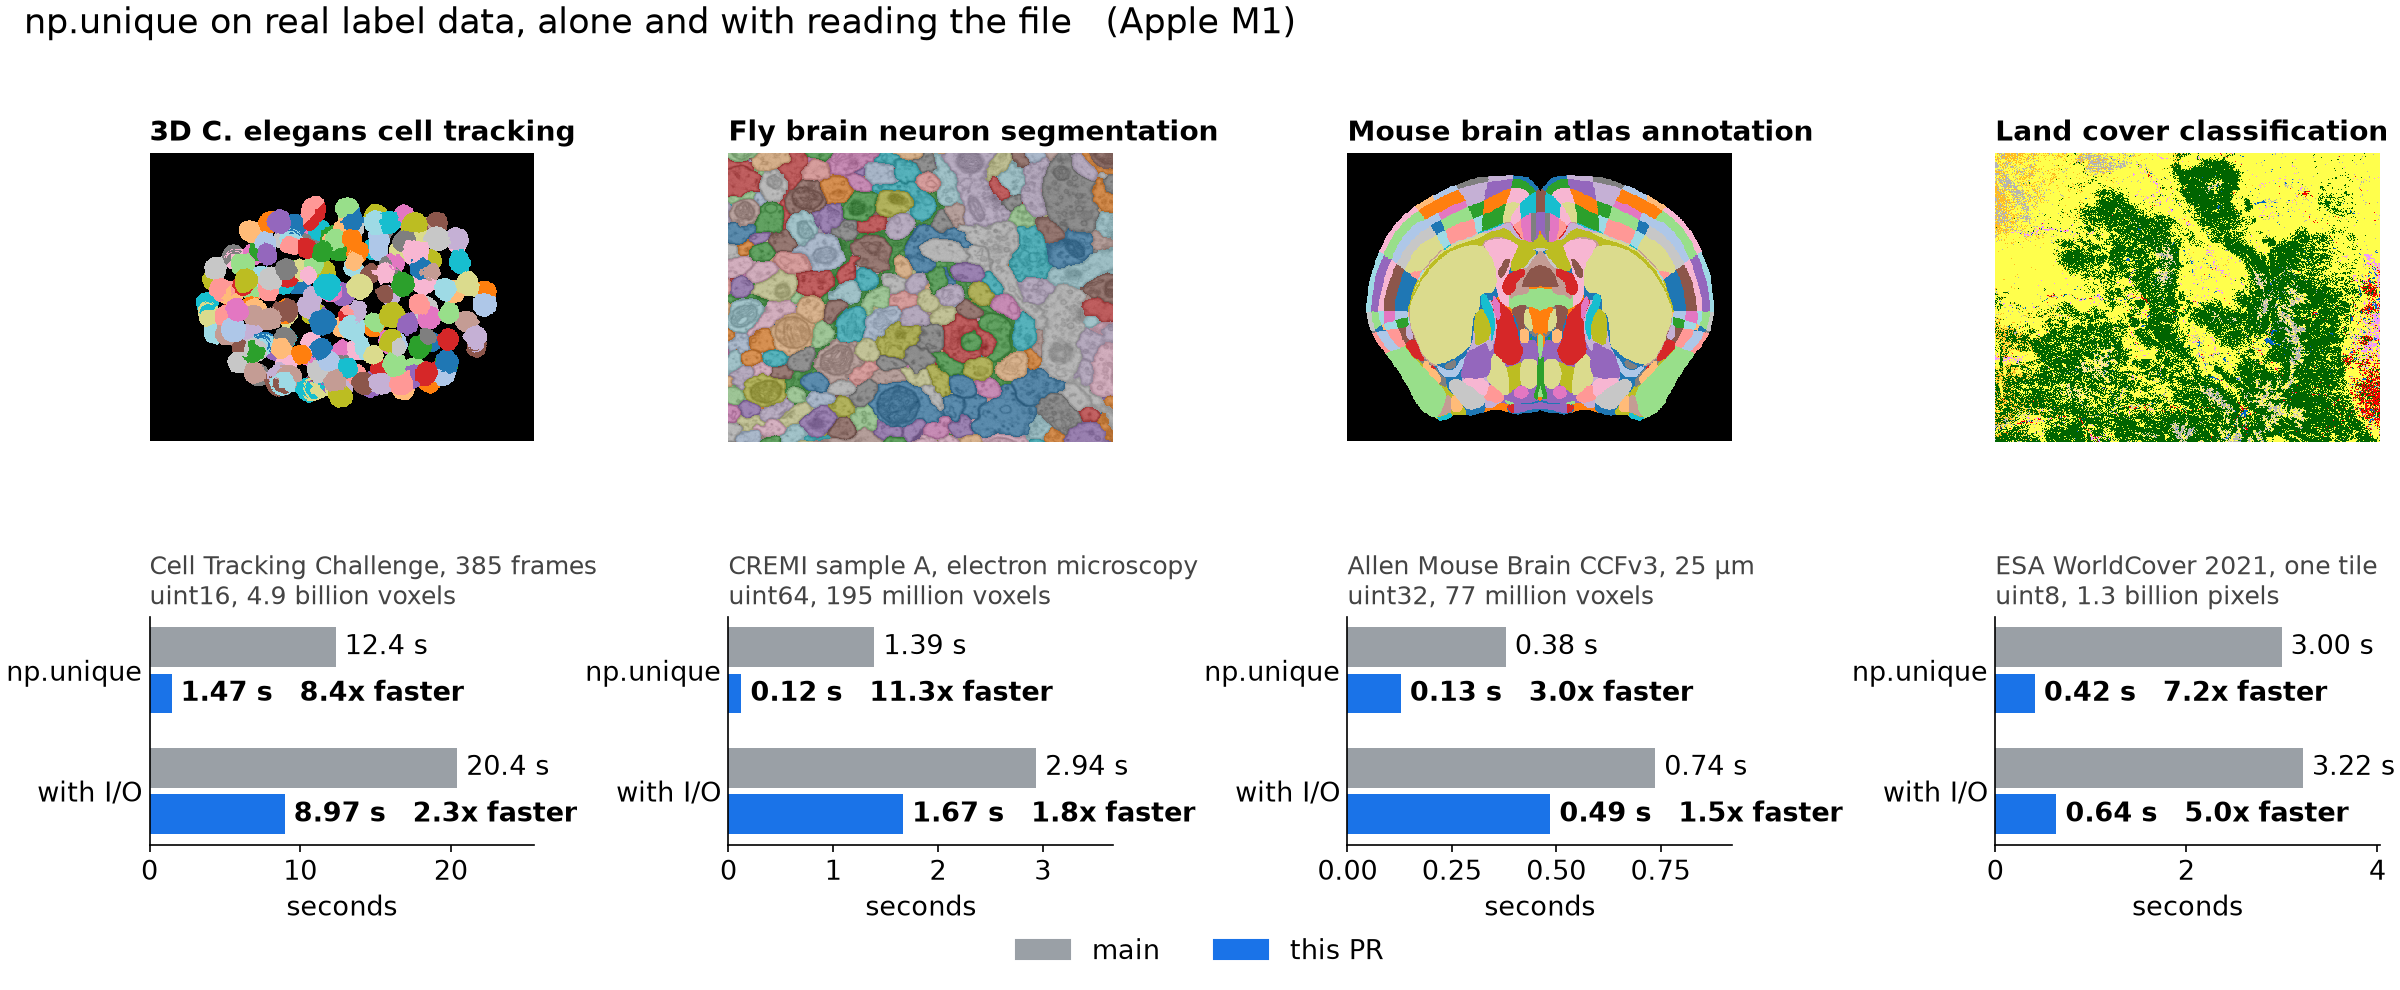
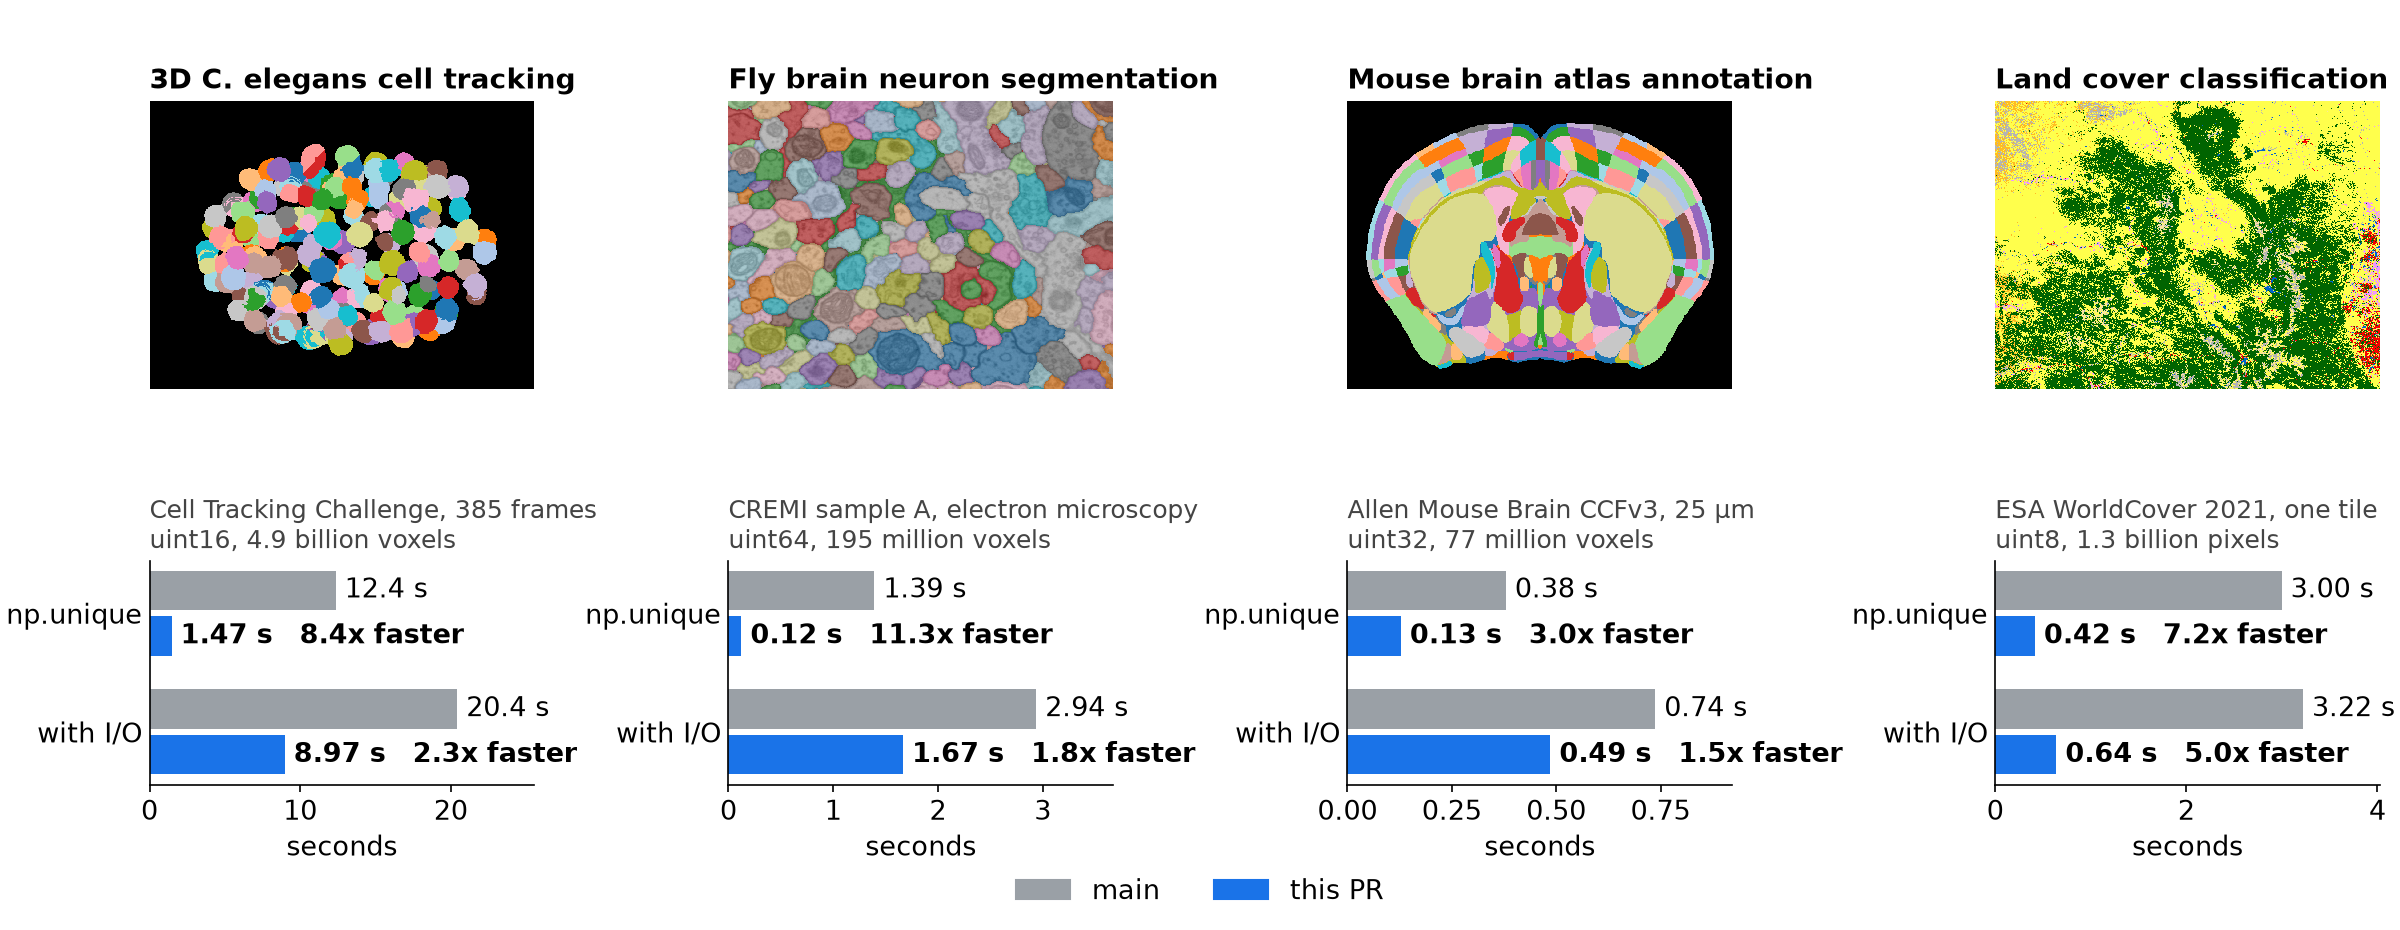
Drop the figure title

diff --git a/summary_plot.py b/summary_plot.py
@@ -149,7 +149,7 @@ else:
 timings = saved["timings"]
 
 plt.rcParams.update({"font.size": 13, "axes.spines.top": False, "axes.spines.right": False})
-fig, axes = plt.subplots(2, 4, figsize=(16, 6.6), height_ratios=[3.2, 1.5], layout="constrained")
+fig, axes = plt.subplots(2, 4, figsize=(16, 6.2), height_ratios=[3.2, 1.5], layout="constrained")
 pictures = images()
 for column, (key, workflow) in enumerate(WORKFLOWS.items()):
     top, bottom = axes[0, column], axes[1, column]
@@ -174,8 +174,6 @@ for column, (key, workflow) in enumerate(WORKFLOWS.items()):
     bottom.set_xlim(0, groups["with I/O"]["main"] * 1.25)
     bottom.set_xlabel("seconds")
     bottom.set_title(workflow["data"], loc="left", fontsize=12, color="#444444")
-fig.suptitle(f"np.unique on real label data, alone and with reading the file   ({saved['cpu']})",
-             x=0.01, ha="left", fontsize=17)
 fig.legend(handles=[Patch(color=COLORS[build], label=build) for build in BUILDS],
            loc="outside lower center", ncols=2, frameon=False)
 fig.savefig(HERE / "summary.png", dpi=150, facecolor="white")
